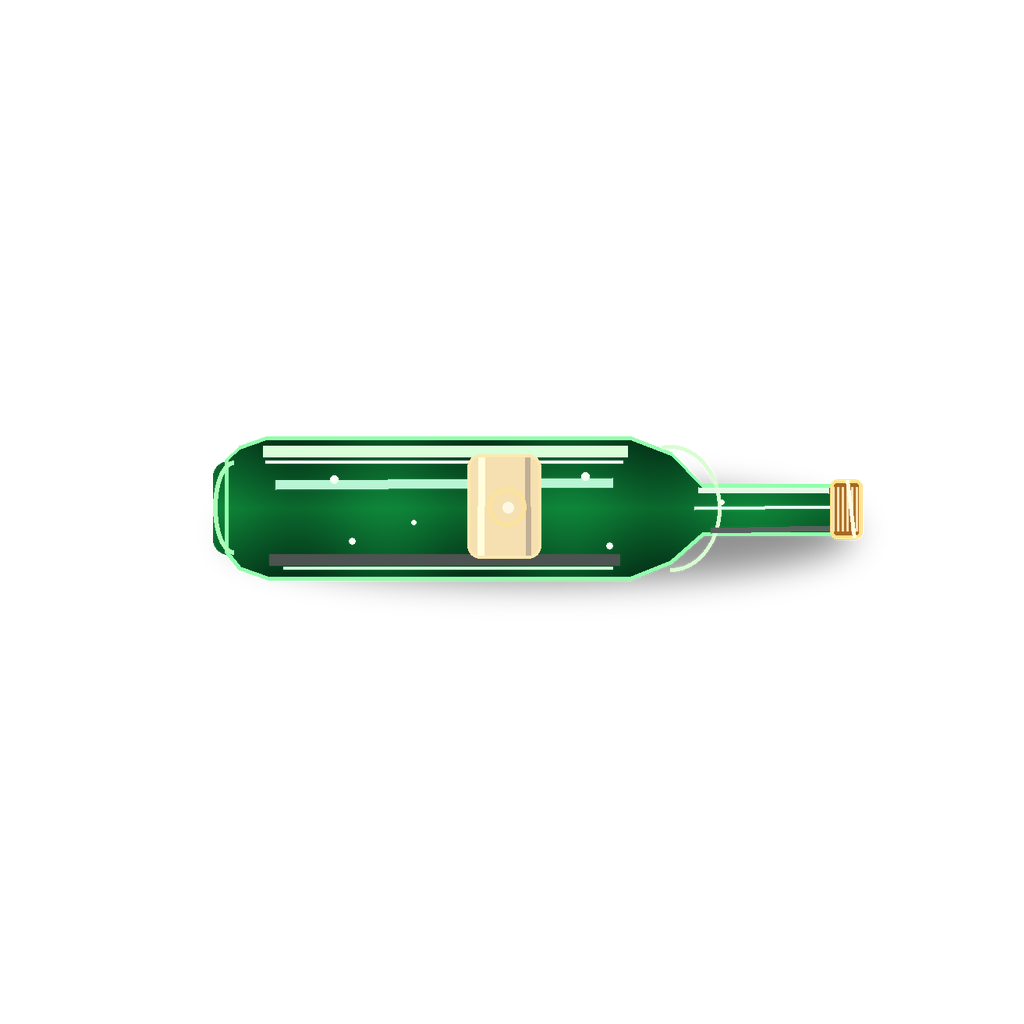
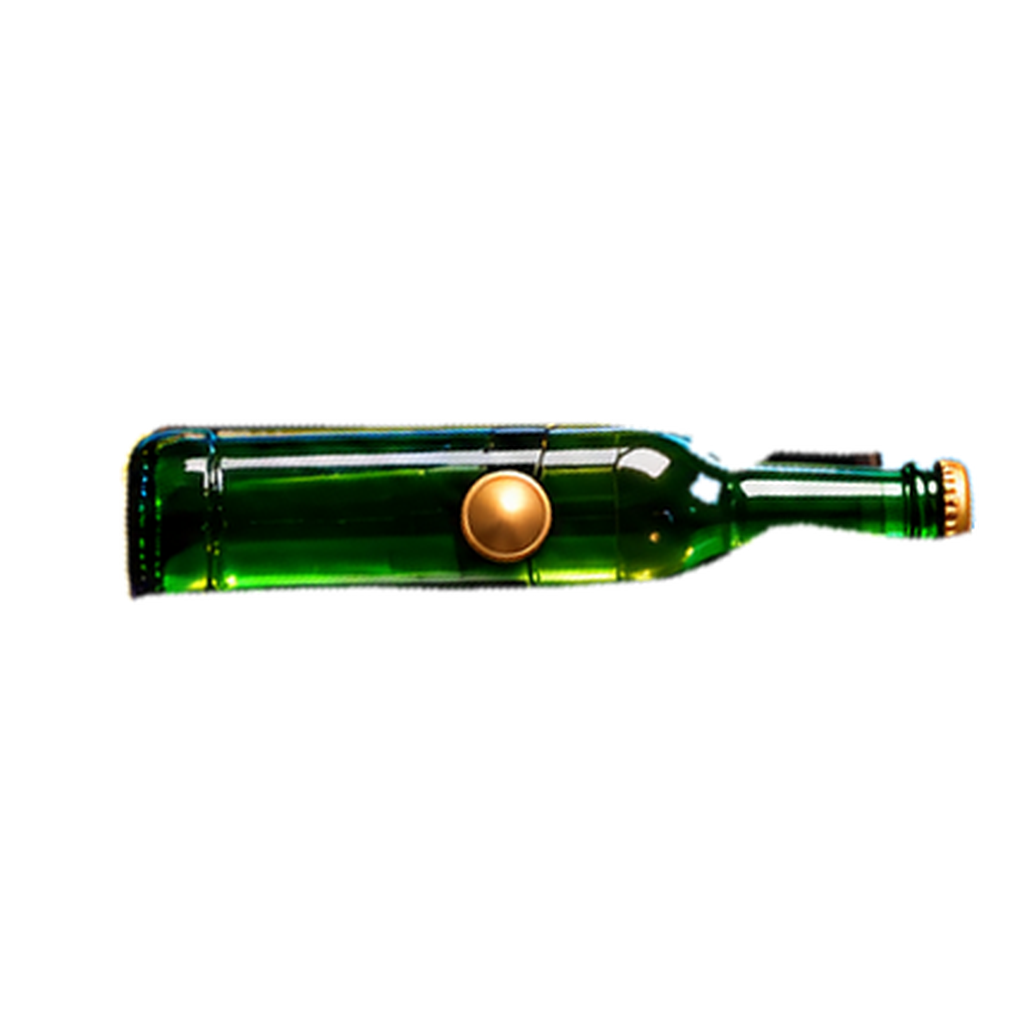
fix(drink-roulette): remove duplicated photo wheel and restore real glass bottle v0.1.4

Changed region(s): [[0.0938, 0.4062, 0.9688, 0.5938]]

diff --git a/homebrew/drink-roulette/native/main.cpp b/homebrew/drink-roulette/native/main.cpp
@@ -1,5 +1,5 @@
 // SPDX-License-Identifier: GPL-3.0-or-later
-// Drink Roulette by YAHBALLON v0.1.3 — native PS5 / ps5-homebrew-ui.
+// Drink Roulette by YAHBALLON v0.1.4 — native PS5 / ps5-homebrew-ui.
 #include "game.hpp"
 #include "gfx/renderer.hpp"
 #include "platform/ps5/display_egl.hpp"
@@ -33,7 +33,7 @@ std::string read(const char* path,size_t maxBytes=12*1024*1024){
  if(fread(content.data(),1,size_t(n),f)!=size_t(n))content.clear();
  fclose(f);return content;
 }
-void log(const char* text){mkdir("/data/DrinkRoulette",0755);if(FILE* f=fopen("/data/DrinkRoulette/drink-roulette.log","ab")){fprintf(f,"[DrinkRoulette v0.1.3] %s\n",text);fclose(f);}}
+void log(const char* text){mkdir("/data/DrinkRoulette",0755);if(FILE* f=fopen("/data/DrinkRoulette/drink-roulette.log","ab")){fprintf(f,"[DrinkRoulette v0.1.4] %s\n",text);fclose(f);}}
 // Persist the setup atomically. Only controller-keyboard characters are saved.
 void save(const Game& g){
  mkdir("/data/DrinkRoulette",0755);
@@ -155,48 +155,44 @@ void menu_button(DrawList& d,const Font& f,unsigned a,int i,const char* name,con
  tx(d,f,a,symbol,125,y+54,34,focus?rgb(0xffdd61):light);
  tx(d,f,a,name,207,y+52,30,white);tx(d,f,a,">",550,y+52,30,focus?rgb(0xff8ffb):muted,Align::right);
 }
-void wheel(DrawList& d,const Font& f,unsigned a,const Game& g,const Texture& bottle){
- constexpr float cx=996,cy=631,r=349;
- d.shadow({cx-r-17,cy-r+26,2*(r+17),2*(r+17)},350,32,rgb(0x000000,.82f));
- d.circle(cx,cy+10,r+25,rgb(0x090707));
- d.ring(cx,cy+9,r+23,10,rgb(0xa66b33));
- d.circle(cx,cy,r+10,rgb(0x060815));
- const float sliceWidth=tau/10.f;
- for(int i=0;i<10;i++){
-  float start=(i-.5f)*sliceWidth;
-  float sweep=sliceWidth-.015f;
-  Color c=rgb(slices[i].color);
-  d.arc(cx,cy,r,175,start,sweep,c,false);
-  d.arc(cx,cy,r+2,5,start+.017f,sweep-.032f,rgb(0xffffff,.8f),false);
-  float rad=i*sliceWidth;
-  float x=cx+std::sin(rad)*270, y=cy-std::cos(rad)*270;
-  std::string name=slices[i].label;
-  if(name=="GROUP DRINK"){
-   tx(d,f,a,"GROUP",x,y-8,17,white,Align::center);
-   tx(d,f,a,"DRINK",x,y+15,17,white,Align::center);
-  }else{
-   tx(d,f,a,name,x,y,19,white,Align::center);
+void wheel(DrawList& d,const Font& f,unsigned a,const Game& g,const Texture& bottle,bool photoWheel){
+ const float cx=photoWheel?962.f:996.f,cy=photoWheel?607.f:631.f,r=349.f;
+ // The reference JPEG already contains the colorful roulette wheel.
+ // Repainting it shifted wheel/labels 34x24 pixels and doubled the whole UI.
+ if(!photoWheel){
+  d.shadow({cx-r-17,cy-r+26,2*(r+17),2*(r+17)},350,32,rgb(0x000000,.82f));
+  d.circle(cx,cy+10,r+25,rgb(0x090707));
+  d.ring(cx,cy+9,r+23,10,rgb(0xa66b33));
+  d.circle(cx,cy,r+10,rgb(0x060815));
+  const float step=tau/10.f;
+  for(int i=0;i<10;i++){
+   float begin=(i-.5f)*step;
+   float sweep=step-.015f;
+   d.arc(cx,cy,r,175,begin,sweep,rgb(slices[i].color),false);
+   d.arc(cx,cy,r+2,5,begin+.017f,sweep-.032f,rgb(0xffffff,.8f),false);
+   float angle=i*step,x=cx+std::sin(angle)*270,y=cy-std::cos(angle)*270;
+   std::string label=slices[i].label;
+   if(label=="GROUP DRINK"){
+    tx(d,f,a,"GROUP",x,y-8,17,white,Align::center);
+    tx(d,f,a,"DRINK",x,y+15,17,white,Align::center);
+   }else tx(d,f,a,label,x,y,19,white,Align::center);
   }
+  d.ring(cx,cy,r+9,5,rgb(0xe4b96e));
  }
- d.ring(cx,cy,r+9,5,rgb(0xe4b96e));
  d.circle(cx,cy,179,rgb(0x1c1418));
  d.ring(cx,cy,178,4,rgb(0x795534));
  d.circle(cx,cy,162,rgb(0x100d12));
  // Radial woodgrain/depth in the fixed inner disc.
  for(int i=0;i<10;i++){float a=i*tau/10;d.line(cx+std::sin(a)*22,cy-std::cos(a)*22,cx+std::sin(a)*160,cy-std::cos(a)*160,2,rgb(0xb17d47,.12f));}
- // Rotate the full sprite on a transparent square atlas.
- // ps5-homebrew-ui rotated_image() rotates UVs, not its quad: the previous
- // 520x156 rectangle clipped the bottle at 90/270 degree turns.
- constexpr float bottleAtlasHalf=164.f;
- if(bottle.id && bottle.width==bottle.height){
+ // The photograph is a square transparent atlas with its gold pivot centered.
+ // The backend rotates image UVs: keep an equally square draw quad.
+ constexpr float bottleAtlasHalf=205.f;
+ if(bottle.id && bottle.width==1024 && bottle.height==1024){
   d.rotated_image(bottle.id,
-     {cx-bottleAtlasHalf,cy-bottleAtlasHalf,2.f*bottleAtlasHalf,2.f*bottleAtlasHalf},
-     pi*.5f-g.angle,white);
+    {cx-bottleAtlasHalf,cy-bottleAtlasHalf,2.f*bottleAtlasHalf,2.f*bottleAtlasHalf},
+    pi*.5f-g.angle,white);
  }else{
-  // Deterministic visual fallback if the sprite asset cannot load.
-  float dx=std::sin(g.angle),dy=-std::cos(g.angle);
-  d.line(cx-dx*157,cy-dy*157,cx+dx*158,cy+dy*158,65,rgb(0x006c36));
-  d.line(cx-dx*147,cy-dy*147,cx+dx*148,cy+dy*148,7,rgb(0xaaffbe));
+  tx(d,f,a,"BOTTLE ASSET MISSING",cx,cy-22,18,rgb(0xffb344),Align::center);
  }
  d.circle(cx,cy,15,rgb(0xd8a74e));
  d.ring(cx,cy,13,3,rgb(0xffe3a0));d.circle(cx,cy,5,rgb(0xfff8db));
@@ -204,21 +200,21 @@ void wheel(DrawList& d,const Font& f,unsigned a,const Game& g,const Texture& bot
  if(g.spinning){d.ring(cx,cy,r+14,3,rgb(0xffffff,.25f));}
 }
 void cards(DrawList& d,const Font& f,unsigned a,const Game& g){
- panel(d,1428,116,415,344);
- tx(d,f,a,"Players ("+std::to_string(g.player_count)+")",1454,163,25);
- d.line(1454,180,1818,180,1,rgb(0x647088,.4f));
+ panel(d,1373,116,470,344);
+ tx(d,f,a,"Players ("+std::to_string(g.player_count)+")",1399,163,25);
+ d.line(1399,180,1818,180,1,rgb(0x647088,.4f));
  const uint32_t pc[]={0xff3c72,0x32b5ff,0x42ef9b,0xffaa36,0xd088ff,0xffe54f,0x40e9e6,0xff6e53};
  for(int i=0;i<g.player_count&&i<4;i++){
   float y=209+i*56;
-  d.circle(1466,y+10,20,rgb(pc[i]));
-  tx(d,f,a,"P"+std::to_string(i+1),1496,y+16,18,rgb(pc[i]));
-  tx(d,f,a,g.players[i].name,1540,y+16,19,white);
+  d.circle(1411,y+10,20,rgb(pc[i]));
+  tx(d,f,a,"P"+std::to_string(i+1),1441,y+16,18,rgb(pc[i]));
+  tx(d,f,a,g.players[i].name,1485,y+16,19,white);
   tx(d,f,a,g.players[i].ready?"Ready":"Not Ready",1818,y+16,16,g.players[i].ready?rgb(0xc4fb66):rgb(0xff5479),Align::right);
  }
- if(g.player_count>4)tx(d,f,a,"+"+std::to_string(g.player_count-4)+" more players",1500,443,16,muted);
- panel(d,1428,482,415,267);
- tx(d,f,a,"Game Status",1454,531,26);
- d.line(1454,546,1818,546,1,rgb(0x647088,.4f));
+ if(g.player_count>4)tx(d,f,a,"+"+std::to_string(g.player_count-4)+" more players",1445,443,16,muted);
+ panel(d,1373,482,470,267);
+ tx(d,f,a,"Game Status",1399,531,26);
+ d.line(1399,546,1818,546,1,rgb(0x647088,.4f));
  tx(d,f,a,"♧",1457,595,24,light);tx(d,f,a,std::to_string(g.player_count)+" Players",1515,594,20);
  tx(d,f,a,"○",1457,643,22,light);tx(d,f,a,std::string(mode_names[g.mode])+" Mode",1515,642,20);
  tx(d,f,a,"▥",1457,691,22,light);tx(d,f,a,std::to_string(g.available_prompt_count())+" Challenges",1515,690,20);
@@ -226,7 +222,7 @@ void cards(DrawList& d,const Font& f,unsigned a,const Game& g){
 
 }
 void footer(DrawList& d,const Font& f,unsigned a,const Game& g){
- d.gradient_rect({0,992,1920,88},0,rgb(0x050916,.96f),rgb(0x080b13));
+ d.rounded_rect({0,964,1920,116},0,rgb(0x050916,1.f));
  tx(d,f,a,"X  Confirm",72,1041,23);
  tx(d,f,a,"O  Back",257,1041,23);
  tx(d,f,a,g.screen==Screen::Players?"SQUARE  Enter name   |   LEFT/RIGHT  Player count":g.screen==Screen::Home?"TRIANGLE  Rules   |   D-PAD  Navigate":g.screen==Screen::Game?"TRIANGLE  New session": "D-PAD  Navigate",1805,1041,21,light,Align::right);
@@ -536,8 +532,13 @@ int main(){
   DrawList d;
   if(bg.id){d.image(bg.id,{0,0,1920,1080},kFullUv,white);if(!bg.reference)title(d,font,atlas);}else{party_backdrop(d);title(d,font,atlas);}
   // Dynamic UI panels replace the baked-in reference panels when photo is present.
-  if(bg.id){d.rounded_rect({71,286,532,695},14,rgb(0x080b16,.995f));d.rounded_rect({1415,107,447,670},15,rgb(0x090b17,.995f));}
-  wheel(d,font,atlas,g,bottle);
+  // The artwork has static sidebars baked in; mask them completely.
+  if(bg.reference){
+   d.rounded_rect({65,277,555,713},15,rgb(0x080d19,1.f));
+   d.rounded_rect({1340,92,542,697},16,rgb(0x080d19,1.f));
+   d.rounded_rect({0,964,1920,116},0,rgb(0x050916,1.f));
+  }
+  wheel(d,font,atlas,g,bottle,bg.reference);
   cards(d,font,atlas,g);
   overlay(d,font,atlas,g);
   footer(d,font,atlas,g);

diff --git a/homebrew/drink-roulette/README.md b/homebrew/drink-roulette/README.md
@@ -1,4 +1,4 @@
-# Drink Roulette by YAHBALLON — v0.1.3
+# Drink Roulette by YAHBALLON — v0.1.4
 
 Native PS5 homebrew party game with 1920×1080 OpenGL presentation, neon drink-roulette lobby, an animated green glass bottle sprite, pass-and-play controller controls, and a fully offline set of **433 unique challenges**. The provided lobby design is used as the background; foreground roulette, challenge cards, and menus are rendered live.
 
@@ -48,6 +48,11 @@ This homebrew is for supported jailbroken PS5 consoles. Host and GitHub CI build
 GPL-3.0-or-later (consistent with the native UI framework). No Sony or PlayStation marks are embedded.
 
 
-## v0.1.3: Roulette display fix
+## v0.1.4: Roulette display fix
 
 The native renderer rotates texture UVs within the destination quad. The old non-square quad clipped the bottle as it spun. The bottle now uses a square transparent atlas with the center pivot aligned to the wheel. The supplied 1080p background contains no baked credits or version text; matching native overlay credits were also removed.
+
+
+## v0.1.4 — remove duplicate layers
+
+The source JPG already includes the roulette wheel, menu and status cards. Photo mode now retains that wheel and only redraws the black hub and a high-detail animated beer bottle centered on the photographed hub (962,607). Old static sidebars and footer are fully occluded by opaque native overlays. Native fallback scene retains a procedural wheel.

diff --git a/homebrew/drink-roulette/RELEASE_NOTES.md b/homebrew/drink-roulette/RELEASE_NOTES.md
@@ -1,8 +1,7 @@
-# Drink Roulette v0.1.3
+# Drink Roulette v0.1.4 — Single wheel and restored glass bottle
 
-- Fix clipping of the spinning green bottle with centered square RGBA atlas and corrected rotation direction.
-- Remove developer/version text from the background artwork and native menu overlay.
-- Suppress ghosts from pre-rendered sidebar labels with more opaque native panels.
-- Add CI regression checks for bottle square shape/alpha, background dimensions, and render path.
-- Keep 433 prompts, setup wizard, modes and saved preferences.
-- Hardware appearance to be verified with a real PS5 test.
+- Fixed underlying bug: existing photographic artwork already contains the wheel; the native overlay had drawn a second wheel, offset about 34px right and 24px down.
+- Photo mode now preserves its beautiful baked roulette slices and redraws just the dark hub and the **animated** transparent glass bottle.
+- New artwork-derived 1024x1024 RGBA bottle sprite replaces green-line geometry. Its gold pivot is aligned with the hub.
+- Full-opacity mask on stale sidebars and footer removes all duplicate labels.
+- Player setup, 433 challenges and game modes preserved. Hardware rendering still must be checked.
